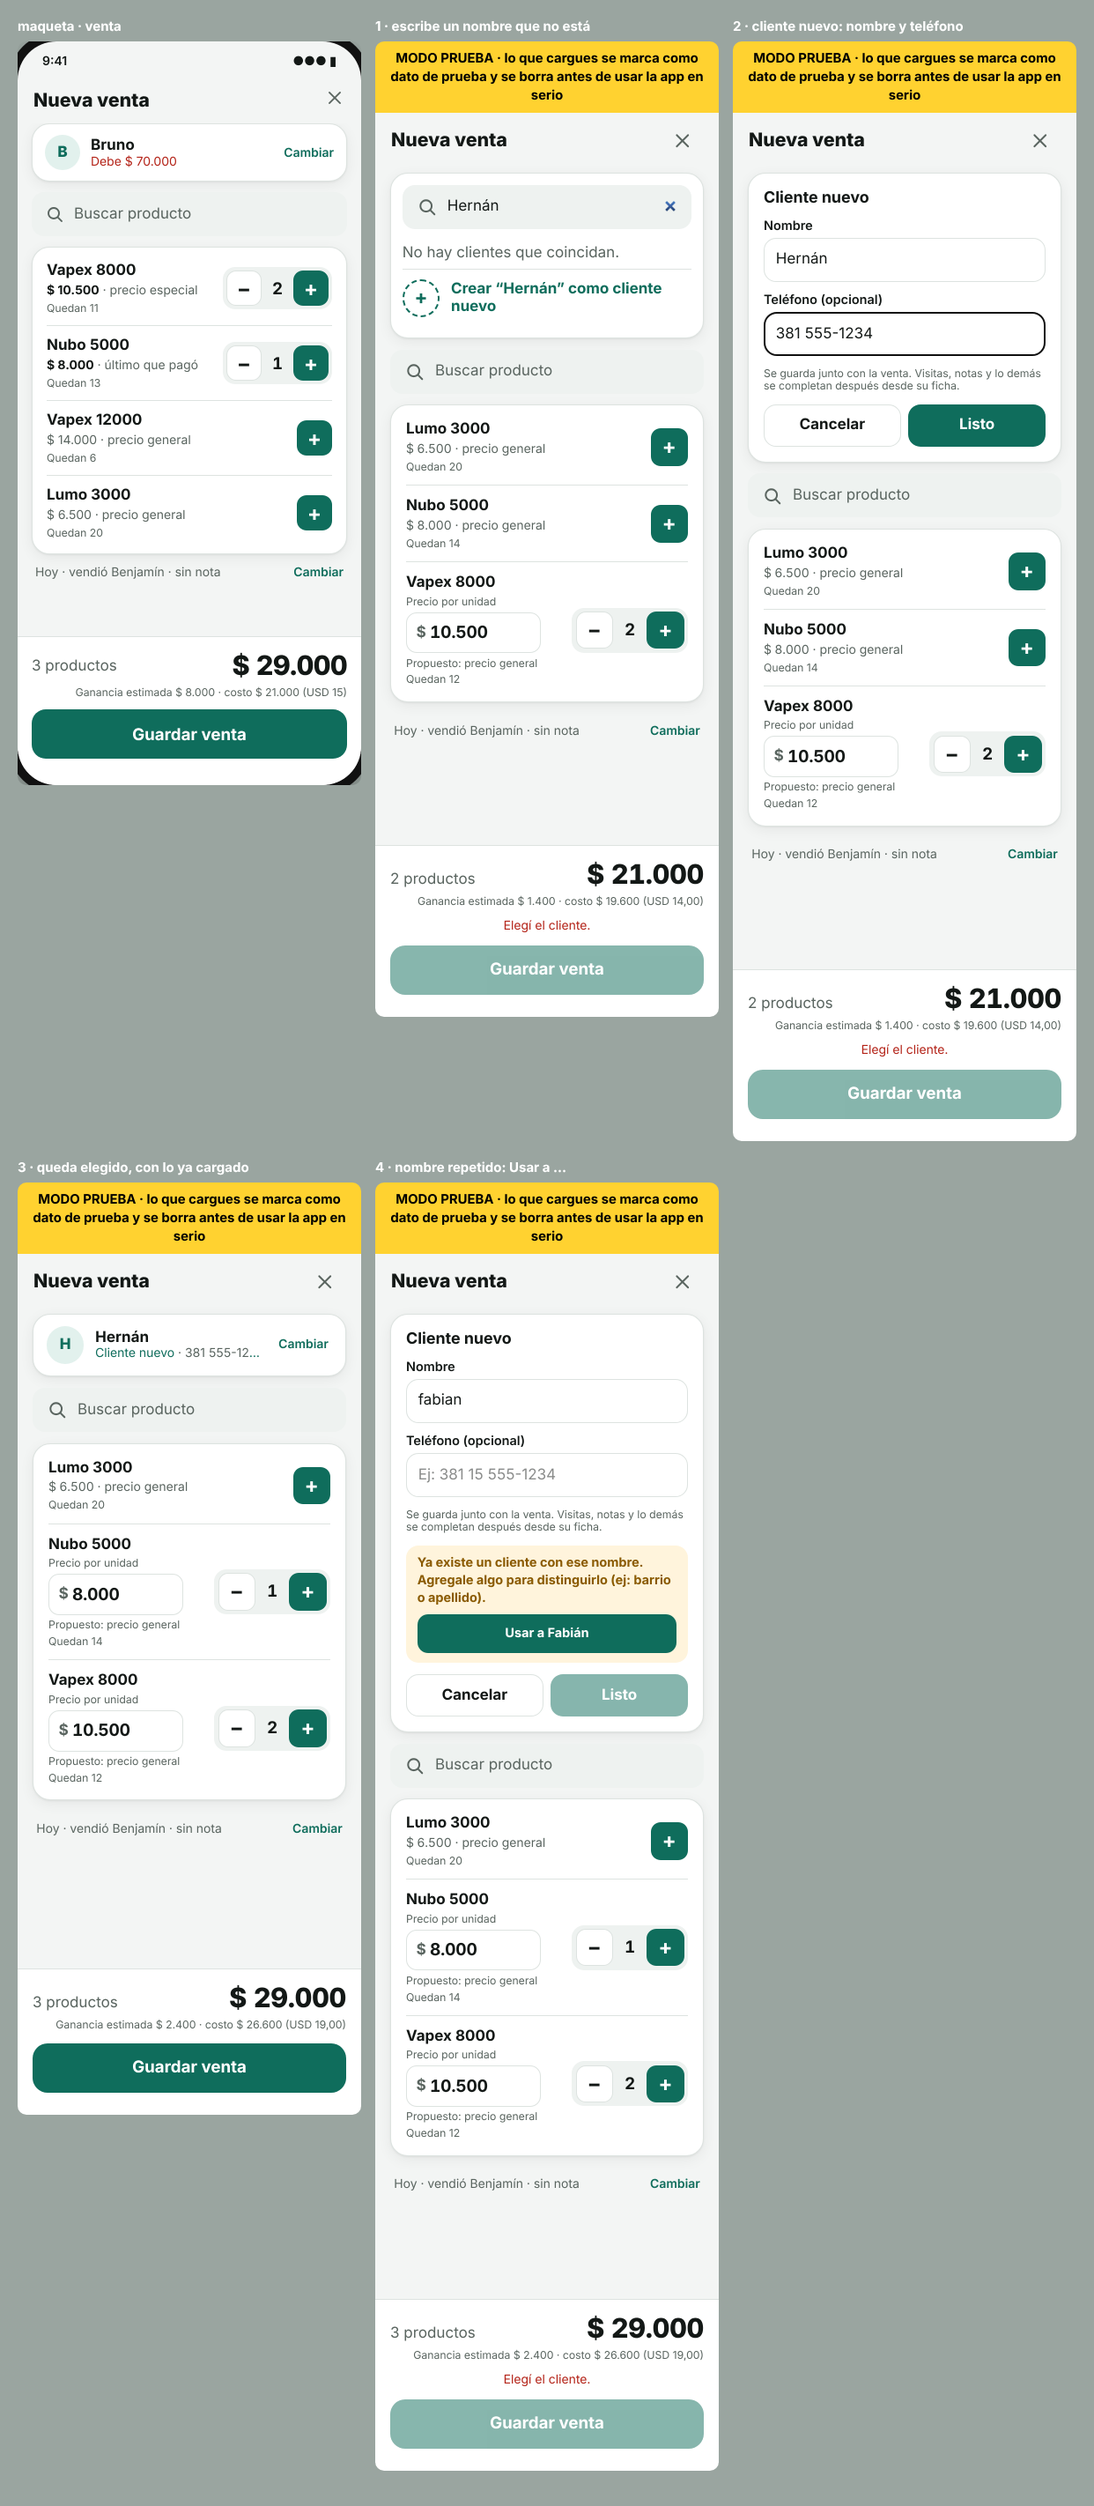
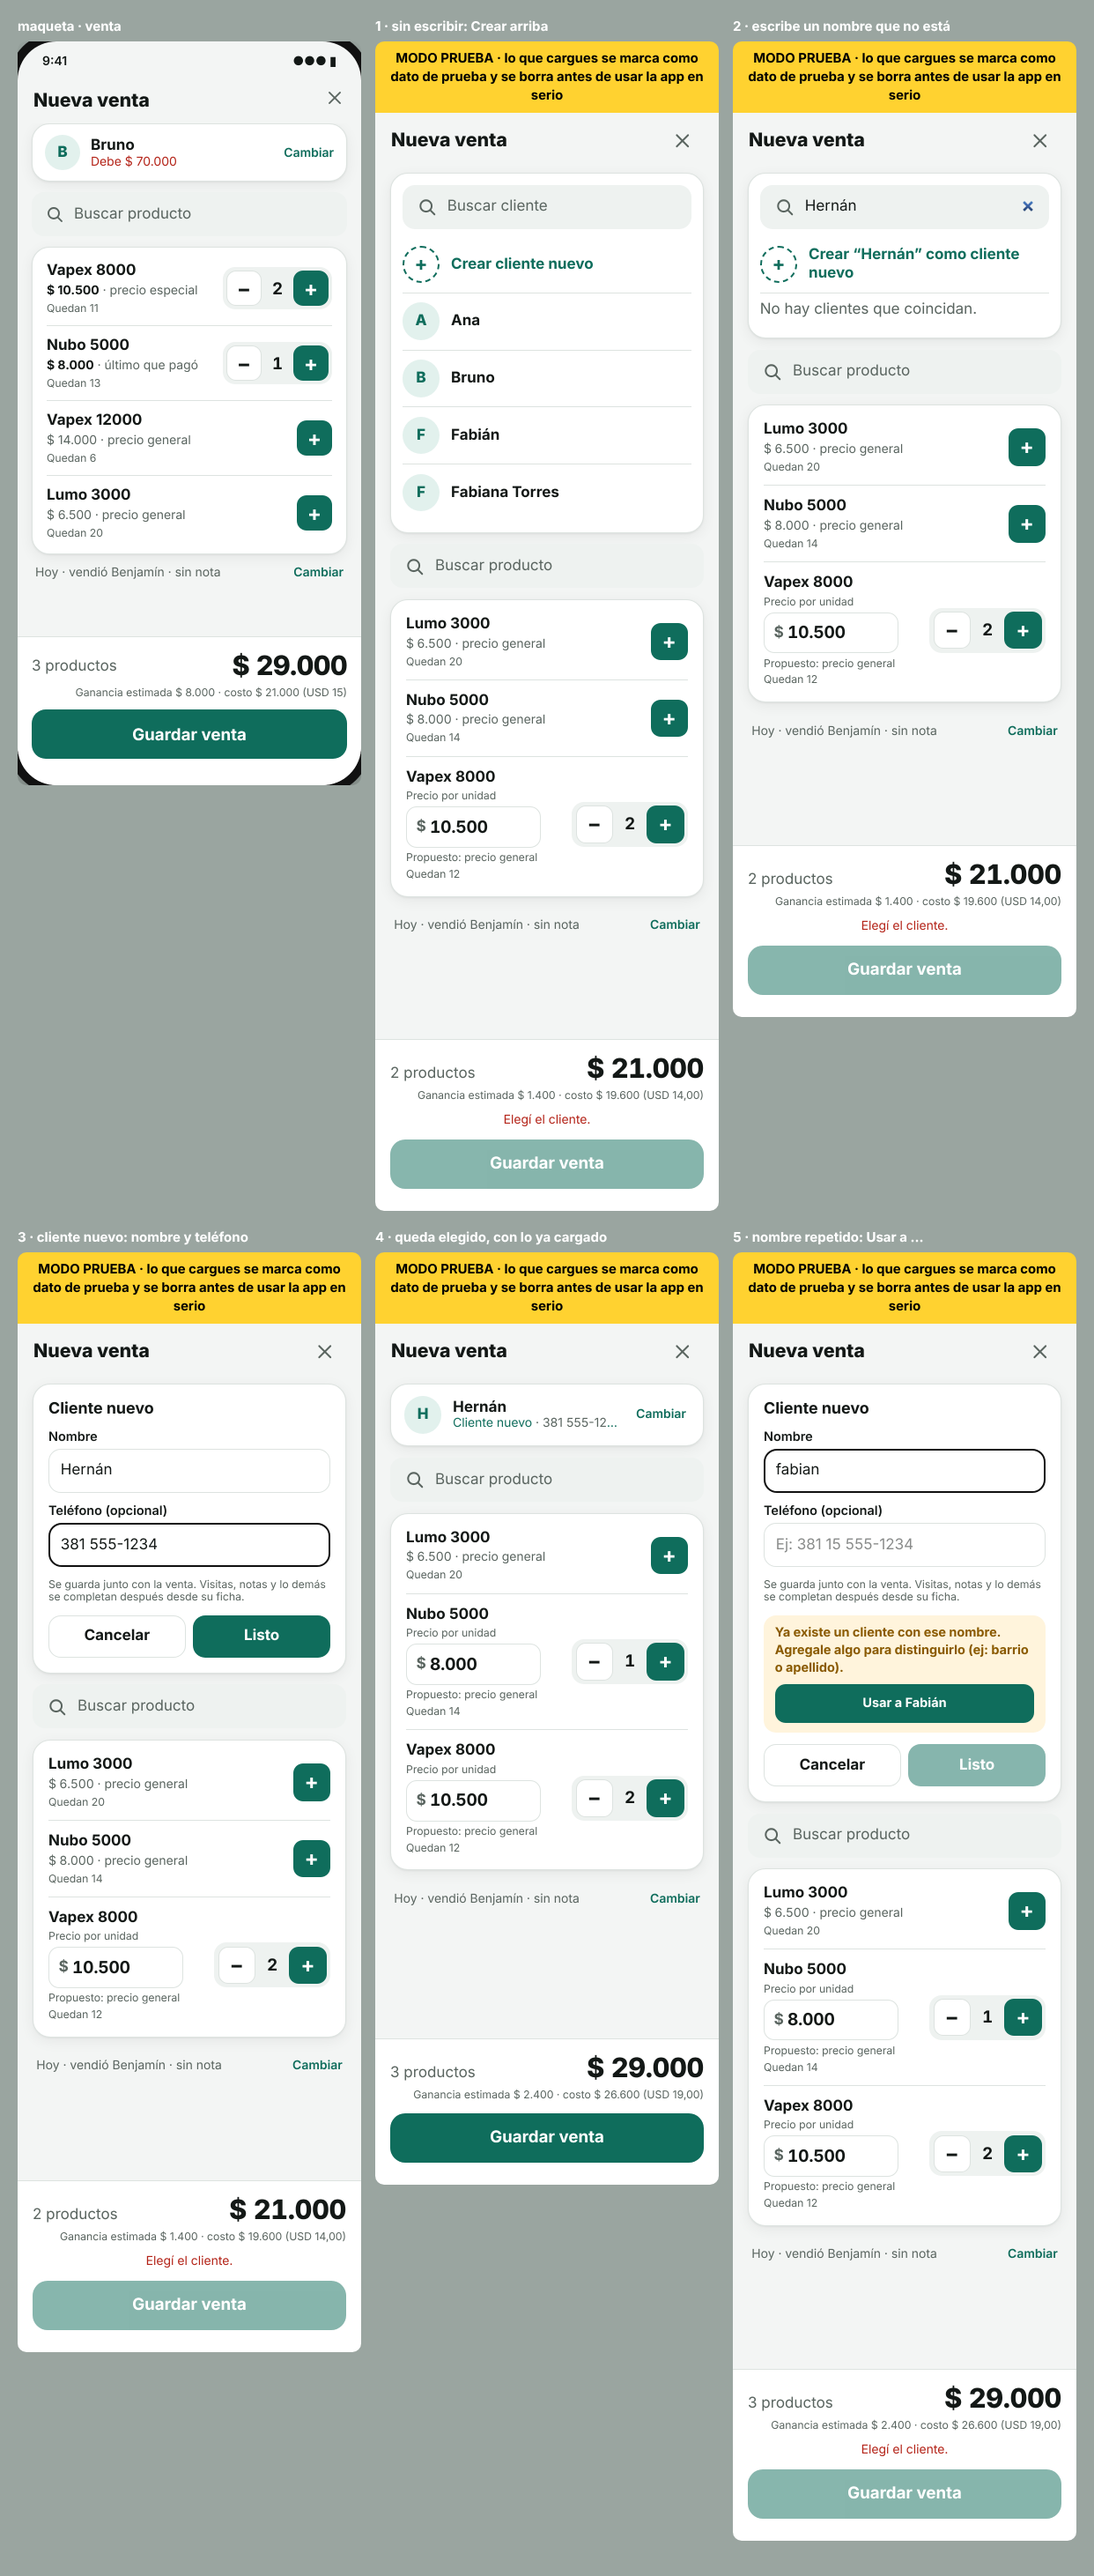
Venta: "Crear cliente nuevo" siempre arriba de la lista de clientes
Pedido de los socios: la opción aparece primero sin tener que escribir nada.
Si hay algo escrito en el buscador, lo usa como nombre. El campo Nombre toma
el foco al abrir la ficha. La prueba de humo controla que sea la primera
opción. Capturas actualizadas.

Claude-Session: https://claude.ai/code/session_01BLJ66v9kscPvt5tysC6xXH

diff --git a/src/app/(app)/ventas/nueva/FormularioVenta.tsx b/src/app/(app)/ventas/nueva/FormularioVenta.tsx
@@ -144,6 +144,7 @@ export function FormularioVenta({
           onChange={(e) => setCreando({ ...creando, nombre: e.target.value })}
           maxLength={MAXIMO_NOMBRE + 10}
           autoComplete="off"
+          autoFocus
           aria-label="Nombre del cliente nuevo"
           className={campo}
         />
@@ -203,6 +204,19 @@ export function FormularioVenta({
         />
       </label>
       <ul className="flex flex-col divide-y divide-borde">
+        {/* Siempre primero, sin tener que escribir nada (pedido de los socios). Si hay algo escrito, lo usa de nombre. */}
+        <li>
+          <button
+            type="button"
+            onClick={() => setCreando({ nombre: paraCrear ?? "", telefono: "" })}
+            className="flex w-full items-center gap-3 py-2.5 text-left font-bold text-acento"
+          >
+            <span aria-hidden="true" className="grid h-10 w-10 shrink-0 place-items-center rounded-full border-2 border-dashed border-acento text-[1.3rem] leading-none">
+              +
+            </span>
+            <span className="min-w-0 break-words">{paraCrear ? <>Crear “{paraCrear}” como cliente nuevo</> : "Crear cliente nuevo"}</span>
+          </button>
+        </li>
         {clientesFiltrados.map((c) => {
           const s = datos.saldos[c.id] ?? 0;
           return (
@@ -218,20 +232,6 @@ export function FormularioVenta({
           );
         })}
         {clientesFiltrados.length === 0 && <li className="py-2 text-texto-suave">No hay clientes que coincidan.</li>}
-        {paraCrear && (
-          <li>
-            <button
-              type="button"
-              onClick={() => setCreando({ nombre: paraCrear, telefono: "" })}
-              className="flex w-full items-center gap-3 py-2.5 text-left font-bold text-acento"
-            >
-              <span aria-hidden="true" className="grid h-10 w-10 shrink-0 place-items-center rounded-full border-2 border-dashed border-acento text-[1.3rem] leading-none">
-                +
-              </span>
-              <span className="min-w-0 break-words">Crear “{paraCrear}” como cliente nuevo</span>
-            </button>
-          </li>
-        )}
       </ul>
     </div>
   );
